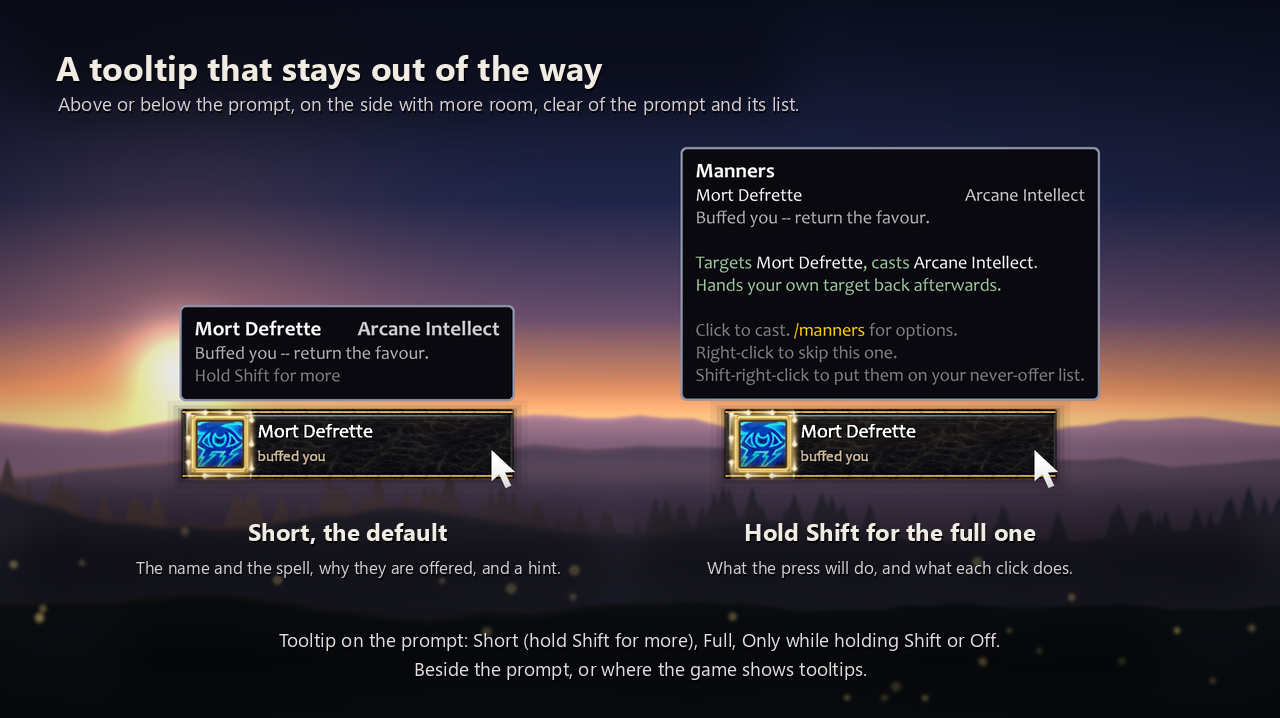
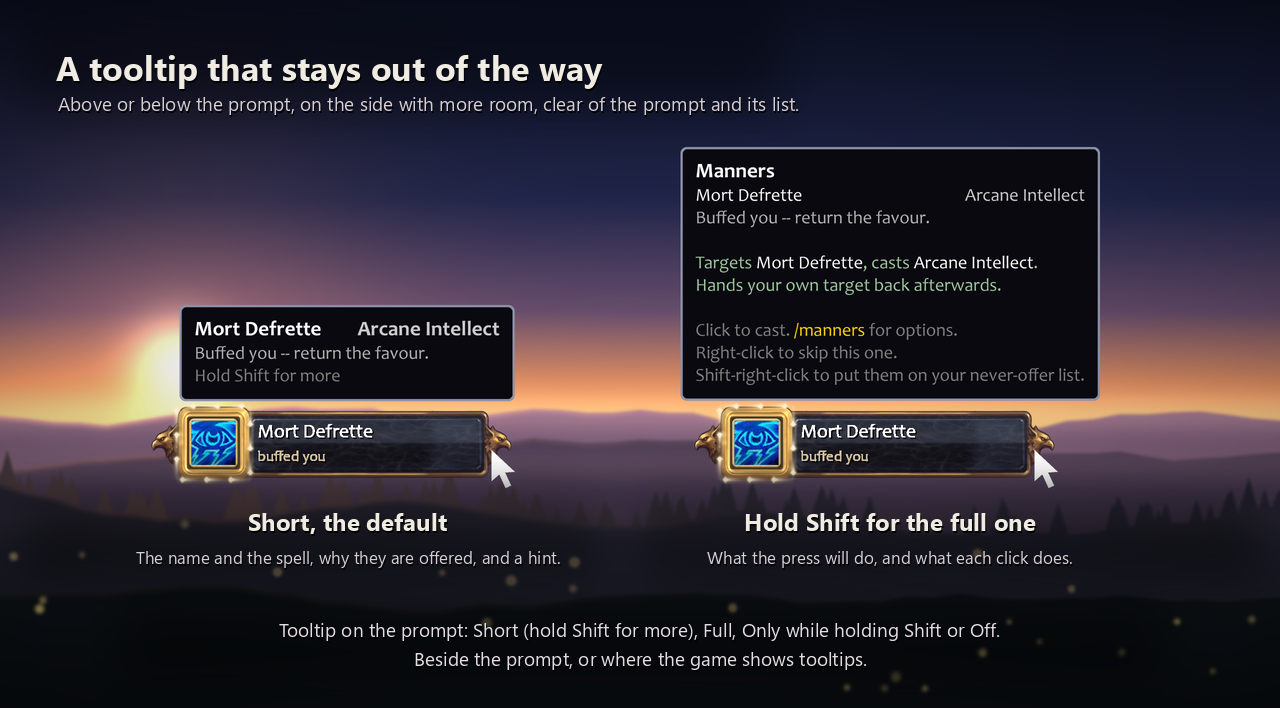
Listing pictures redrawn with the painted looks, all twenty-nine on the looks sheet

diff --git a/tools/make-screenshots.py b/tools/make-screenshots.py
@@ -134,8 +134,8 @@ IN_PUBLISHED_FACE = os.path.exists(LATIN_REGULAR[0])
 # picture gives it and the line under it. Named here because the states below
 # are made from them.
 FILMS = [
-    ("stormcaller", "Stormcaller", "Chain lightning arcs when your buff lands."),
-    ("lightbringer", "Lightbringer", "The sun of the Light flares when your buff lands."),
+    ("stormcaller", "Shaman", "Chain lightning arcs when your buff lands."),
+    ("lightbringer", "Paladin", "The sun of the Light flares when your buff lands."),
 ]
 
 problems = []
@@ -721,7 +721,7 @@ local added = {
 -- most players who use it have -- the looks that show the key only show it
 -- with one bound. ShotStyle is the look the profile ends up on, so a look the
 -- addon refused or put back is caught rather than drawn under another's name.
-for _, style in ipairs({ "glass", "framed", "minimal", "luxe", "toast", "arcane", "ribbon", "letter", "leather", "forge", "archmage", "lightbringer", "fel", "wild", "frost", "stormcaller", "warchief", "gearworks", "ebon" }) do
+for _, style in ipairs({ "glass", "framed", "toast", "arcane", "minimal", "ghost", "hairline", "pill", "slate", "luxe", "ribbon", "letter", "warchief", "gearworks", "frost", "firemage", "archmage", "fel", "wild", "lightbringer", "stormcaller", "ebon", "leather", "forge", "priest", "rogue", "monk", "demonhunter", "evoker" }) do
 	added[#added + 1] = { key = "shot-look-" .. style, at = 0.85, setup = function(ns)
 		Mock.bindings = { F = "CLICK MannersPrompt:LeftButton" }
 		boot(ns, { nameplate1 = ELOWEN, nameplate2 = SABLE, nameplate3 = MIRA })
@@ -2206,27 +2206,37 @@ LIST_ROWS = ["Mira Holt", "Tam Rook", "Rowan Lark"]
 
 # The looks the Look tab offers, each with the name and the few words its
 # card gives it: Glass, the default, first and on its own at the top of the
-# board, then the other eighteen, six rows of three.
+# board, then the others, two to a row.
 LOOKS = [
-    ("glass", "Glass", "dark cut glass, a metal bezel"),
-    ("luxe", "Luxe", "slim dark card, a spine in the reason colour"),
+    ("glass", "Glass", "dark glass in gilt rails, a gryphon at each end"),
+    ("framed", "Framed", "a riveted steel frame round dark glass"),
     ("toast", "Toast", "warm banner, gilded medallion"),
     ("arcane", "Arcane", "smoked glass, a rim lit by the reason"),
+    ("minimal", "Minimal", "a thin rim, a soft pane, one fine line"),
+    ("ghost", "Ghost", "a pane of smoked glass, a thin rim"),
+    ("hairline", "Hairline", "a framed icon and one fine line"),
+    ("pill", "Pill", "a rounded pane, a pale rim"),
+    ("slate", "Slate", "a dark pane in a steel edge"),
+    ("luxe", "Luxe", "slim dark card, a spine in the reason colour"),
     ("ribbon", "Ribbon", "a crimson ribbon and a gold medallion"),
     ("letter", "Letter", "parchment and a red wax seal"),
-    ("leather", "Leather", "a stitched leather tag with a brass ring"),
-    ("forge", "Forge", "forged iron, a riveted band"),
-    ("archmage", "Archmage", "a violet crystal, six arcane charges"),
-    ("lightbringer", "Lightbringer", "silver and blue enamel, a sun of the Light"),
-    ("fel", "Fel", "black felsteel and fel fire, a summoning circle"),
-    ("wild", "Wild", "a bough of living wood, antlers and a moonwell"),
-    ("frost", "Frost", "a slab of glacial ice, a frozen ring and icicles"),
-    ("stormcaller", "Stormcaller", "a totem, a slab of stone and the four elements"),
-    ("ebon", "Ebon", "a runeblade of saronite, a skull over the socket, runes that kindle"),
-    ("gearworks", "Gearworks", "riveted brass, a pressure gauge and turning cogs"),
-    ("warchief", "Warchief", "black iron and tusks, the Horde's crest in the forge's glow"),
-    ("framed", "Framed", "dark panel, a tooltip's rim"),
-    ("minimal", "Minimal", "a thin rim, a soft pane, one fine line"),
+    ("warchief", "Warchief", "black iron and tusks, the Horde's crest"),
+    ("gearworks", "Gearworks", "riveted brass, a pressure gauge and cogs"),
+    ("frost", "Frost Mage", "glacial ice, a frozen ring and icicles"),
+    ("firemage", "Fire Mage", "bronze and embers, a molten gem"),
+    ("archmage", "Arcane Mage", "a violet crystal, six arcane charges"),
+    ("fel", "Warlock", "felsteel and fel fire, a summoning circle"),
+    ("wild", "Druid", "living wood, a wreath and a moonwell"),
+    ("lightbringer", "Paladin", "gold and enamel, a sun of the Light"),
+    ("stormcaller", "Shaman", "a totem, stone and the four elements"),
+    ("ebon", "Death Knight", "a runeblade of saronite, a skull"),
+    ("leather", "Hunter", "tooled hide, a brass ring and feathers"),
+    ("forge", "Warrior", "forged iron, a riveted band"),
+    ("priest", "Priest", "ivory and gold, a halo round the icon"),
+    ("rogue", "Rogue", "black leather and brass, a poisoned blade"),
+    ("monk", "Monk", "red lacquer and jade, an endless knot"),
+    ("demonhunter", "Demon Hunter", "dark leather and fel steel"),
+    ("evoker", "Evoker", "scaled bronze, a dragon round the icon"),
 ]
 
 
@@ -3073,14 +3083,16 @@ def wrap_caption(text, size, width, bold=False):
 
 def picture_looks(snaps):
     """Every look, the same favour in each. Glass, the default, stands first
-    and larger at the top; the other eighteen follow three to a row, six rows,
+    and larger at the top; the others follow two to a row,
     each named over its panel. Those are all drawn at the same zoom from the
     same moment, so what differs between them is the look and nothing else."""
     hero = prompt_layer("shot-look-" + LOOKS[0][0], snaps["shot-look-" + LOOKS[0][0]], 2.0)
     rest = LOOKS[1:]
     layers = [prompt_layer("shot-look-" + style, snaps["shot-look-" + style], 1.5)
               for style, _, _ in rest]
-    cols = 3
+    # Two to a row: a painted look hangs its ends past the prompt, and three
+    # of them touched across a row.
+    cols = 2
     rows = (len(layers) + cols - 1) // cols
     cell_w = WIDTH / cols
     label_h = 78
@@ -3095,7 +3107,7 @@ def picture_looks(snaps):
     hero_h = hero.size[1] + 24
     top = hero_top + hero_h + 6
     board = Board(top + sum(heights) + 10, seed=17, sun=(0.50, 0.53))
-    heading(board, "Looks to choose from",
+    heading(board, "Twenty-nine looks to choose from",
             "The same favour in each. Pick one from the cards under Look.")
     # Glass and its words side by side, in the middle of the page.
     _, name, words = LOOKS[0]
@@ -3457,20 +3469,18 @@ GALLERY = [
      "it shows, under Look.",
      "The prompt twice with its tooltip above it: the Short one with the name, the spell, why they are "
      "offered and Hold Shift for more; the Full one with Shift held, saying what the press and each click do"),
-    ("manners-looks.png", "Looks to choose from",
-     "Glass, the default, then Luxe, Toast, Arcane, Ribbon, Letter, Leather, Forge, Archmage, "
-     "Lightbringer, Fel, Wild, Frost, Stormcaller, Ebon, Gearworks, Warchief, Framed and Minimal, the "
+    ("manners-looks.png", "Twenty-nine looks to choose from",
+     "Glass, the default, then every other look on its shelf, Classic, Minimal, Themed and Class, the "
      "same favour drawn in each; click a card under Look to switch.",
-     "Looks for the prompt, the same favour drawn in each: Glass, the default, then Luxe, "
-     "Toast, Arcane, Ribbon, Letter, Leather, Forge, Archmage, Lightbringer, Fel, Wild, Frost, Stormcaller, "
-     "Ebon, Gearworks, Warchief, Framed and Minimal"),
-    ("manners-look-stormcaller.gif", "Stormcaller, as a buff lands",
+     "The twenty-nine looks for the prompt, the same favour drawn in each: Glass, the default, then "
+     "Framed, Toast, Arcane, Minimal, Ghost, Hairline, Pill, Slate, Luxe, Ribbon, Letter, Warchief, Gearworks, Frost Mage, Fire Mage, Arcane Mage, Warlock, Druid, Paladin, Shaman, Death Knight, Hunter, Warrior, Priest, Rogue, Monk, Demon Hunter and Evoker"),
+    ("manners-look-stormcaller.gif", "The Shaman look, as a buff lands",
      "Animated: somebody buffed you, you press, and chain lightning arcs from the totem to the standing "
      "stone.",
-     "The Stormcaller look as a buff lands: chain lightning arcs from the totem to the standing stone"),
-    ("manners-look-lightbringer.gif", "Lightbringer, as a buff lands",
+     "The Shaman look as a buff lands: chain lightning arcs from the totem to the standing stone"),
+    ("manners-look-lightbringer.gif", "The Paladin look, as a buff lands",
      "Animated: somebody buffed you, you press, and the sun of the Light flares round your spell.",
-     "The Lightbringer look as a buff lands: the sun of the Light flares round the spell"),
+     "The Paladin look as a buff lands: the sun of the Light flares round the spell"),
     ("manners-moment.png", "Three moments",
      "Film strips of one favour, four frames each: somebody buffs you, your buff lands, the game refuses "
      "it. Frames at 0.05, 0.15, 0.30 and 0.60 seconds.",

diff --git a/.github/media/UPLOAD.md b/.github/media/UPLOAD.md
@@ -49,9 +49,9 @@ CurseForge description, which embeds them from GitHub once `master` holds them.
 | 5 | `manners-yourself.png` | Your own buffs too | When your own armor, poison or buff is missing, you come up on the prompt as "You": a mage's armor, a rogue's poison for the main hand, your own Arcane Intellect. |
 | 6 | `manners-list.png` | Click any name | Switch on List the next few below (Look) and every name under the prompt is a button, with the icon of the buff they would get. Left-click buffs that person, right-click skips them for now, shift-right-click never offers them again. |
 | 7 | `manners-tooltip.png` | A tooltip that stays out of the way | Hover the prompt for the Short tooltip: the name, the spell and why they are offered. Hold Shift for the Full one, which says what the press and each click do. Short, Full, Shift only or Off, and where it shows, under Look. |
-| 8 | `manners-looks.png` | Looks to choose from | Glass, the default, then Luxe, Toast, Arcane, Ribbon, Letter, Leather, Forge, Archmage, Lightbringer, Fel, Wild, Frost, Stormcaller, Ebon, Gearworks, Warchief, Framed and Minimal, the same favour drawn in each; click a card under Look to switch. |
-| 9 | `manners-look-stormcaller.gif` | Stormcaller, as a buff lands | Animated: somebody buffed you, you press, and chain lightning arcs from the totem to the standing stone. |
-| 10 | `manners-look-lightbringer.gif` | Lightbringer, as a buff lands | Animated: somebody buffed you, you press, and the sun of the Light flares round your spell. |
+| 8 | `manners-looks.png` | Twenty-nine looks to choose from | Glass, the default, then every other look on its shelf, Classic, Minimal, Themed and Class, the same favour drawn in each; click a card under Look to switch. |
+| 9 | `manners-look-stormcaller.gif` | The Shaman look, as a buff lands | Animated: somebody buffed you, you press, and chain lightning arcs from the totem to the standing stone. |
+| 10 | `manners-look-lightbringer.gif` | The Paladin look, as a buff lands | Animated: somebody buffed you, you press, and the sun of the Light flares round your spell. |
 | 11 | `manners-moment.png` | Three moments | Film strips of one favour, four frames each: somebody buffs you, your buff lands, the game refuses it. Frames at 0.05, 0.15, 0.30 and 0.60 seconds. |
 | 12 | `manners-ledger.png` | The favour ledger | Who buffed you, whether you returned it, and who you buffed without being asked. Open it with /manners ledger. |
 | 13 | `manners-milestones.png` | Milestones | Small things worth doing, kept on a tab of the favour ledger: earned ones with their date and a link to show in chat, the rest with how far along you are. A toast comes up when you earn one, and earning them all puts you among the Gentlefolk of Good Manners, the hall of fame. |

diff --git a/.github/gallery.md b/.github/gallery.md
@@ -7,9 +7,9 @@
 | `manners-yourself.png` | Your own buffs too | When your own armor, poison or buff is missing, you come up on the prompt as "You": a mage's armor, a rogue's poison for the main hand, your own Arcane Intellect. |
 | `manners-list.png` | Click any name | Switch on List the next few below (Look) and every name under the prompt is a button, with the icon of the buff they would get. Left-click buffs that person, right-click skips them for now, shift-right-click never offers them again. |
 | `manners-tooltip.png` | A tooltip that stays out of the way | Hover the prompt for the Short tooltip: the name, the spell and why they are offered. Hold Shift for the Full one, which says what the press and each click do. Short, Full, Shift only or Off, and where it shows, under Look. |
-| `manners-looks.png` | Looks to choose from | Glass, the default, then Luxe, Toast, Arcane, Ribbon, Letter, Leather, Forge, Archmage, Lightbringer, Fel, Wild, Frost, Stormcaller, Ebon, Gearworks, Warchief, Framed and Minimal, the same favour drawn in each; click a card under Look to switch. |
-| `manners-look-stormcaller.gif` | Stormcaller, as a buff lands | Animated: somebody buffed you, you press, and chain lightning arcs from the totem to the standing stone. |
-| `manners-look-lightbringer.gif` | Lightbringer, as a buff lands | Animated: somebody buffed you, you press, and the sun of the Light flares round your spell. |
+| `manners-looks.png` | Twenty-nine looks to choose from | Glass, the default, then every other look on its shelf, Classic, Minimal, Themed and Class, the same favour drawn in each; click a card under Look to switch. |
+| `manners-look-stormcaller.gif` | The Shaman look, as a buff lands | Animated: somebody buffed you, you press, and chain lightning arcs from the totem to the standing stone. |
+| `manners-look-lightbringer.gif` | The Paladin look, as a buff lands | Animated: somebody buffed you, you press, and the sun of the Light flares round your spell. |
 | `manners-moment.png` | Three moments | Film strips of one favour, four frames each: somebody buffs you, your buff lands, the game refuses it. Frames at 0.05, 0.15, 0.30 and 0.60 seconds. |
 | `manners-ledger.png` | The favour ledger | Who buffed you, whether you returned it, and who you buffed without being asked. Open it with /manners ledger. |
 | `manners-milestones.png` | Milestones | Small things worth doing, kept on a tab of the favour ledger: earned ones with their date and a link to show in chat, the rest with how far along you are. A toast comes up when you earn one, and earning them all puts you among the Gentlefolk of Good Manners, the hall of fame. |

diff --git a/.github/curseforge-description.md b/.github/curseforge-description.md
@@ -24,11 +24,11 @@ Setting it up takes one page. `/manners` opens **Start here**: two numbered step
 
 Turn on *List the next few below* (Look) and every name under the prompt is a button of its own, with the icon of the buff they would get: left-click buffs that person, right-click skips them for now, shift-right-click puts them on your never-offer list.
 
-![Looks for the prompt, the same favour drawn in each: Glass, the default, then Luxe, Toast, Arcane, Ribbon, Letter, Leather, Forge, Archmage, Lightbringer, Fel, Wild, Frost, Stormcaller, Ebon, Gearworks, Warchief, Framed and Minimal](https://raw.githubusercontent.com/fpsacha/Manners/master/.github/media/manners-looks.png)
+![The twenty-nine looks for the prompt, the same favour drawn in each: Glass, the default, then Framed, Toast, Arcane, Minimal, Ghost, Hairline, Pill, Slate, Luxe, Ribbon, Letter, Warchief, Gearworks, Frost Mage, Fire Mage, Arcane Mage, Warlock, Druid, Paladin, Shaman, Death Knight, Hunter, Warrior, Priest, Rogue, Monk, Demon Hunter and Evoker](https://raw.githubusercontent.com/fpsacha/Manners/master/.github/media/manners-looks.png)
 
-![The Stormcaller look as a buff lands: chain lightning arcs from the totem to the standing stone](https://raw.githubusercontent.com/fpsacha/Manners/master/.github/media/manners-look-stormcaller.gif)
+![The Shaman look as a buff lands: chain lightning arcs from the totem to the standing stone](https://raw.githubusercontent.com/fpsacha/Manners/master/.github/media/manners-look-stormcaller.gif)
 
-![The Lightbringer look as a buff lands: the sun of the Light flares round the spell](https://raw.githubusercontent.com/fpsacha/Manners/master/.github/media/manners-look-lightbringer.gif)
+![The Paladin look as a buff lands: the sun of the Light flares round the spell](https://raw.githubusercontent.com/fpsacha/Manners/master/.github/media/manners-look-lightbringer.gif)
 
 ![Three film strips of the prompt, four frames each: somebody buffed you, your buff lands, the game refuses it](https://raw.githubusercontent.com/fpsacha/Manners/master/.github/media/manners-moment.png)
 

diff --git a/README.md b/README.md
@@ -616,7 +616,7 @@ profile reset touches them.
 
 ## The prompt's look
 
-<img src=".github/media/manners-looks.png" alt="Looks for the prompt, the same favour drawn in each: Glass, the default, then Luxe, Toast, Arcane, Ribbon, Letter, Leather, Forge, Archmage, Lightbringer, Fel, Wild, Frost, Stormcaller, Ebon, Gearworks, Warchief, Framed and Minimal" width="640">
+<img src=".github/media/manners-looks.png" alt="The twenty-nine looks for the prompt, the same favour drawn in each: Glass, the default, then Framed, Toast, Arcane, Minimal, Ghost, Hairline, Pill, Slate, Luxe, Ribbon, Letter, Warchief, Gearworks, Frost Mage, Fire Mage, Arcane Mage, Warlock, Druid, Paladin, Shaman, Death Knight, Hunter, Warrior, Priest, Rogue, Monk, Demon Hunter and Evoker" width="640">
 
 Twenty-nine looks, each a card under Look > *Panel style*. Tabs over the
 cards sort them: **For my class** (the looks made for your class, three for a
